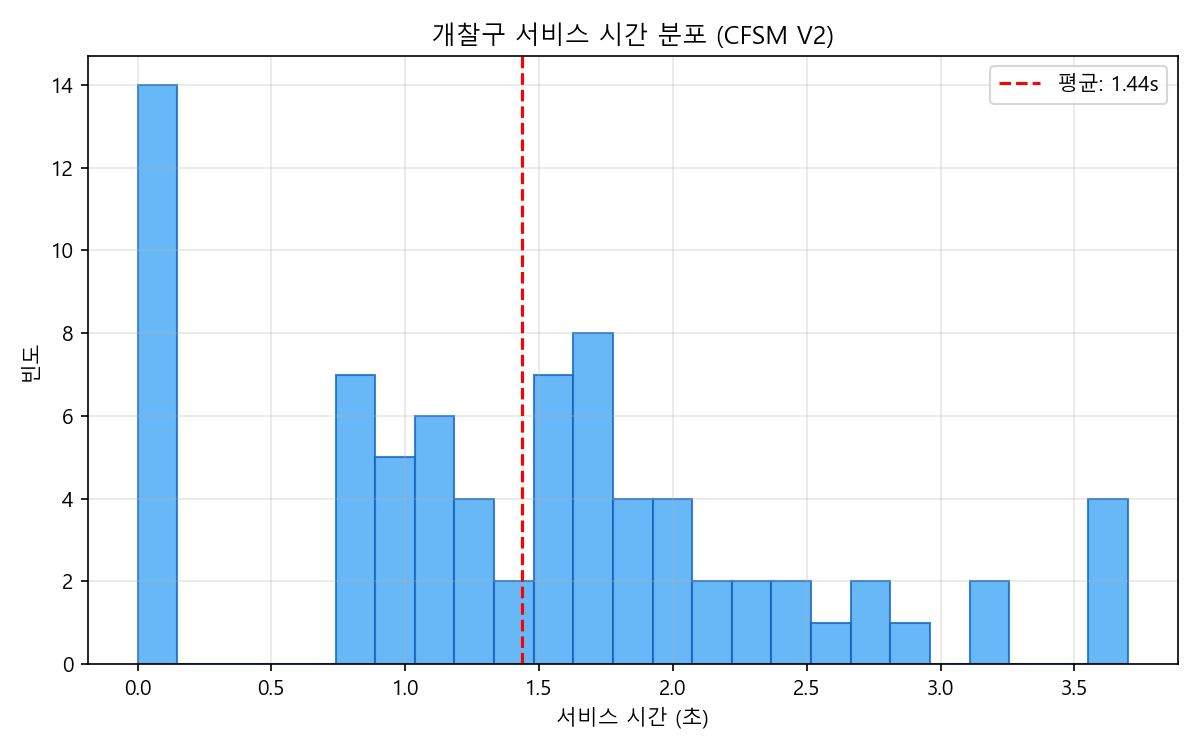
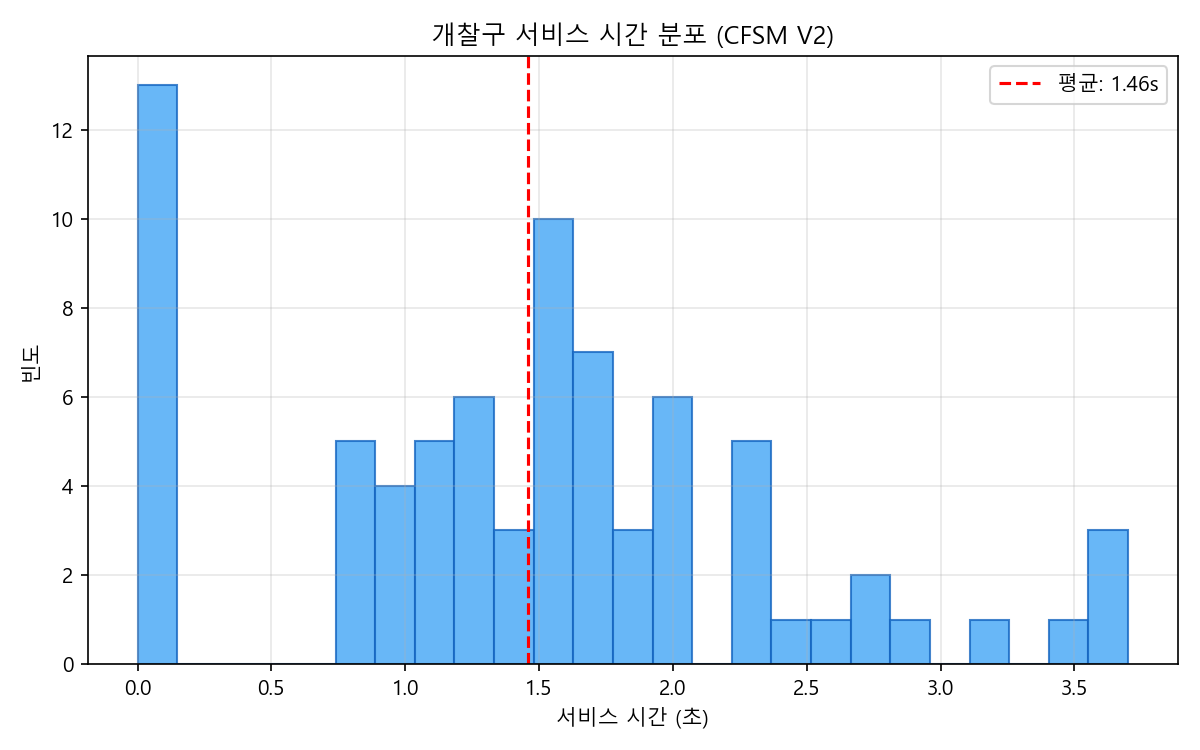
게이트 1인 1통과 강화: 낑김(jamming) 방지
- QUEUE_MIN_SPEED: 0.05 -> 0.0 (CFSM은 완전 정지 안전)
- QUEUE_STOP_DIST: 0.5m -> 1.0m (게이트 1m 전에서 대기)
- Phase 1에서 gate_occupied 확인 추가 (점유 중이면 진입 차단)
- 태그리스 통과 시에도 gate_occupied 설정
- 결과: 77/77 통과, 미통과 0명, 대기열 피크 7명

diff --git a/simulation/run_west_simulation_cfsm.py b/simulation/run_west_simulation_cfsm.py
@@ -109,10 +109,10 @@ GATE_ZONE_X_START = GATE_X - 0.3
 GATE_ZONE_X_END = GATE_X + GATE_LENGTH + 0.3
 
 # 대기열 제어
-QUEUE_STOP_DIST = 0.5
+QUEUE_STOP_DIST = 1.0     # 게이트 1m 전에서 대기 (0.5m → 1.0m: 통로 진입 방지)
 QUEUE_FOLLOW_DIST = 5.0
 LEADER_FOLLOW_GAP = 0.6
-QUEUE_MIN_SPEED = 0.05   # CFSM: 완전 정지 대신 극저속
+QUEUE_MIN_SPEED = 0.0    # CFSM: 완전 정지 가능 (GCFM과 달리 벽 반발 불필요)
 
 OUTPUT_DIR = pathlib.Path(__file__).parent.parent / "output"
 OUTPUT_DIR.mkdir(exist_ok=True)
@@ -608,12 +608,18 @@ def run_simulation():
                         except Exception:
                             pass
 
+                # 게이트 점유 중이면 진입 불가 — 정지 후 대기
+                if gate_occupied[gi] and aid not in in_service:
+                    set_agent_speed(agent, QUEUE_MIN_SPEED)
+                    ad["state"] = "queuing"
+                    continue
+
                 # 태그리스: 일반 보행속도로 게이트를 걸어서 통과 (무정지)
                 if ad["is_tagless"] and aid not in in_service:
                     ad["state"] = "in_gate_walking"
                     ad["gate_walk_start"] = current_time
                     stats["service_times"].append(0.0)
-                    # 속도 유지한 채 게이트 출구 waypoint로 이동
+                    gate_occupied[gi] = True  # 태그리스도 통과 중 점유
                     set_agent_speed(agent, ad["original_speed"])
                     try:
                         sim.switch_agent_journey(
